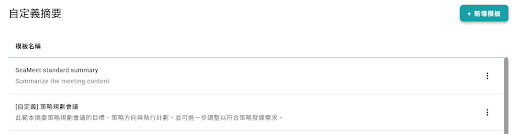
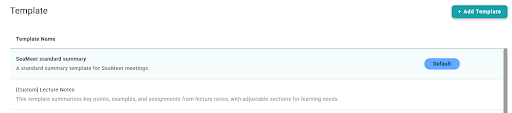
fix: en ver and add template list

diff --git a/content/zh/seameet/seameet-manual/2-general-setup/17-seameet-summary-template.md b/content/zh/seameet/seameet-manual/2-general-setup/17-seameet-summary-template.md
@@ -15,65 +15,17 @@ toc: true
 
 記錄會議時，取決於不同的會議性質，可能需要產出不同的會議紀錄重點與格式。為了讓會議摘要可以更符合企業與個別會議的需要，用戶可以依照會議選用合適的會議模板，或是自行創建合適的摘要模板。每個工作區都將有自己的摘要模板清單。
 
-※特別注意，摘要範本僅適用於「總結」會議摘要，不適用於「即時」會議摘要。
+- 特別注意，摘要範本僅適用於「總結」會議摘要，不適用於「即時」會議摘要。
 
-## 1. 套用摘要模板
-
-1. 會議結束後，點選會議摘要旁邊的摘要模板按鈕
-<center>
-<a name="seameet-template-btn" href="/images/seameet-zh/17-seameet-summary-template/1seameet-template-btn.png" target="_blank">
-<img style="width: 60%" src="/images/seameet-zh/17-seameet-summary-template/1seameet-template-btn.png" alt="seameet-template-btn"/>
-</a>
-
-</center>
-
-2. 在彈窗的下拉選單中，選擇您想套用的摘要模板
-<center>
-<a name="seameet-template-popup" href="/images/seameet-zh/17-seameet-summary-template/2seameet-template-popup.png" target="_blank">
-<img style="width: 60%" src="/images/seameet-zh/17-seameet-summary-template/2seameet-template-popup.png" alt="seameet-template-popup"/>
-</a>
-
-</center>
-
-3. 選擇儲存，即可重新產生會議摘要
-<center>
-<a name="seameet-generating-summary" href="/images/seameet-zh/17-seameet-summary-template/3seameet-generating-summary.png" target="_blank">
-<img style="width: 60%" src="/images/seameet-zh/17-seameet-summary-template/3seameet-generating-summary.png" alt="seameet-generating-summary"/>
-</a>
-
-</center>
-    <center>
-    <a name="seameet-generating-summary" href="/images/seameet-zh/17-seameet-summary-template/4seameet-generating-summary.png" target="_blank">
-    <img style="width: 60%" src="/images/seameet-zh/17-seameet-summary-template/4seameet-generating-summary.png" alt="seameet-generating-summary"/>
-    </a>
-
-</center>
-
-注意，每次產生新摘要後會自動寄出一封帶摘要的新郵件。如果您的分享設置是也分享給其他與會者，則所有人都會收到一份新郵件。
-
-## 2. 為例行性會議套用模板
-
-1. 若您有固定的例行性會議希望套用特定的會議摘要模板，例如「站立會議」或「週例會」。如您的會議是透過綁定 Google 行事曆或 E-mail 邀請，則點擊摘要模板時，便會自動詢問是否要為該系列會議套用固定的摘要模板。
-2. 套用後，每當有該系列的新會議被建立時，將自動套用該模板。
-
-- ※注意事項：例行性會議將以套用的模板為主，而非預設會議模板
-  <center>
-  <a name="seameet-choose-template" href="/images/seameet-zh/17-seameet-summary-template/5seameet-choose-template.png" target="_blank">
-  <img style="width: 60%" src="/images/seameet-zh/17-seameet-summary-template/5seameet-choose-template.png" alt="seameet-choose-template"/>
-  </a>
-
-</center>
-
-## 3. 摘要模板清單
+## 1. 摘要模板清單
 
 1.  點擊「工作區設定」的「自定義摘要」，即可瀏覽目前的模板清單
 
-- ※注意事項：須為個人方案或團隊方案，才可使用自定義摘要功能。用戶須為該工作區的擁有者或管理員權限。
+- 注意事項：須為個人方案或團隊方案，才可使用自定義摘要功能。用戶須為該工作區的擁有者或管理員權限。
 <center>
 <a name="seameet-customize-template" href="/images/seameet-zh/17-seameet-summary-template/6seameet-customize-template.png" target="_blank">
 <img style="width: 80%" src="/images/seameet-zh/17-seameet-summary-template/6seameet-customize-template.png" alt="seameet-customize-template"/>
 </a>
-
 </center>
 
 2. SeaMeet 目前預設支援如下摘要模板，包含多數企業日常所進行的各類會議，以及部份產業常見的會議需求。用戶可以自行選擇所需的摘要模板，或自行創建新模板。
@@ -98,6 +50,53 @@ toc: true
 - \[自定義\] 產品開發會議
 - \[自定義\] 醫療看診預約記錄
 - \[自定義\] 策略規劃會議
+
+## 2. 套用摘要模板
+
+1. 會議結束後，點選會議摘要旁邊的摘要模板按鈕
+<center>
+<a name="seameet-template-btn" href="/images/seameet-zh/17-seameet-summary-template/1seameet-template-btn.png" target="_blank">
+<img style="width: 60%" src="/images/seameet-zh/17-seameet-summary-template/1seameet-template-btn.png" alt="seameet-template-btn"/>
+</a>
+
+</center>
+
+2. 在彈窗的下拉選單中，選擇您想套用的摘要模板
+<center>
+<a name="seameet-template-popup" href="/images/seameet-zh/17-seameet-summary-template/2seameet-template-popup.png" target="_blank">
+<img style="width: 60%" src="/images/seameet-zh/17-seameet-summary-template/2seameet-template-popup.png" alt="seameet-template-popup"/>
+</a>
+
+</center>
+
+3. 選擇儲存，即可重新產生會議摘要
+<center>
+<a name="seameet-generating-summary" href="/images/seameet-zh/17-seameet-summary-template/3seameet-generating-summary.png" target="_blank">
+<img style="width: 60%" src="/images/seameet-zh/17-seameet-summary-template/3seameet-generating-summary.png" alt="seameet-generating-summary"/>
+</a>
+
+</center>
+<br>
+<center>
+<a name="seameet-generating-summary" href="/images/seameet-zh/17-seameet-summary-template/4seameet-generating-summary.png" target="_blank">
+<img style="width: 60%" src="/images/seameet-zh/17-seameet-summary-template/4seameet-generating-summary.png" alt="seameet-generating-summary"/>
+</a>
+</center>
+
+注意，每次產生新摘要後會自動寄出一封帶摘要的新郵件。如果您的分享設置是也分享給其他與會者，則所有人都會收到一份新郵件。
+
+## 3. 為例行性會議套用模板
+
+1. 若您有固定的例行性會議希望套用特定的會議摘要模板，例如「站立會議」或「週例會」。如您的會議是透過綁定 Google 行事曆或 E-mail 邀請，則點擊摘要模板時，便會自動詢問是否要為該系列會議套用固定的摘要模板。
+2. 套用後，每當有該系列的新會議被建立時，將自動套用該模板。
+
+- 注意事項：例行性會議將以套用的模板為主，而非預設會議模板
+<center>
+<a name="seameet-choose-template" href="/images/seameet-zh/17-seameet-summary-template/5seameet-choose-template.png" target="_blank">
+<img style="width: 60%" src="/images/seameet-zh/17-seameet-summary-template/5seameet-choose-template.png" alt="seameet-choose-template"/>
+</a>
+
+</center>
 
 ## 4. 設定預設模板
 

diff --git a/content/en/seameet/seameet-manual/2-general-setup/17-seameet-summary-template.md b/content/en/seameet/seameet-manual/2-general-setup/17-seameet-summary-template.md
@@ -16,7 +16,42 @@ toc: true
 
 When recording a meeting, depending on the nature of the meeting, different focus and formats of the meeting minutes may need to be produced. In order to make the meeting summary more in line with the needs of enterprises and individual meetings, users can choose an appropriate meeting template according to the meeting, or create an appropriate abstract template by themselves. Each workspace will have its own list of summary templates.
 
-※ Please note that the abstract template is only applicable to "summary" meeting abstracts and not to "real-time" meeting abstracts.
+- Please note that the abstract template is only applicable to "summary" meeting abstracts and not to "real-time" meeting abstracts.
+
+## 1. Summary Template List
+
+1.  To view the current template list, navigate to `Workspace Settings` -> `Template`.
+
+- Note: Available only for Individual and Team plans. Users must have Owner or Admin permissions for the workspace.
+
+<center>
+<a name="seameet-customize-template" href="/images/seameet-en/17-seameet-summary-template/6seameet-customize-template.png" target="_blank">
+<img style="width: 80%" src="/images/seameet-en/17-seameet-summary-template/6seameet-customize-template.png" alt="seameet-customize-template"/>
+</a>
+</center>
+
+2. SeaMeet provides a set of built-in summary templates covering common business meetings and industry-specific needs. Users can select a template from the list or create a new one.
+
+**Built-in Summary Templates**
+
+- \[Default\] SeaMeet standard summary
+- \[Custom\] Weekly Department Meeting
+- \[Custom\] Podcast Recording
+- \[Custom\] Lecture Notes
+- \[Custom\] All-Hands Meeting
+- \[Custom\] Client Meeting
+- \[Custom\] Legal Case Preparation
+- \[Custom\] Job Interview Record
+- \[Custom\] Sales Meeting
+- \[Custom\] Daily Stand-up Meeting
+- \[Custom\] Academic Affairs Meeting
+- \[Custom\] Project Management Meeting
+- \[Custom\] One-on-One Meeting
+- \[Custom\] Journalist Interview Records
+- \[Custom\] Requirement Discussion Meeting
+- \[Custom\] Product Development Meeting
+- \[Custom\] Medical Appointment Records
+- \[Custom\] Strategy Planning Meeting
 
 ## 1. Apply summary template
 
@@ -25,7 +60,6 @@ When recording a meeting, depending on the nature of the meeting, different focu
 <a name="seameet-template-btn" href="/images/seameet-en/17-seameet-summary-template/1seameet-template-btn.png" target="_blank">
 <img style="width: 60%" src="/images/seameet-en/17-seameet-summary-template/1seameet-template-btn.png" alt="seameet-template-btn"/>
 </a>
-
 </center>
 
 2. In the drop-down menu of the pop-up window, select the summary template you want to apply
@@ -33,13 +67,18 @@ When recording a meeting, depending on the nature of the meeting, different focu
 <a name="seameet-template-popup" href="/images/seameet-en/17-seameet-summary-template/2seameet-template-popup.png" target="_blank">
 <img style="width: 60%" src="/images/seameet-en/17-seameet-summary-template/2seameet-template-popup.png" alt="seameet-template-popup"/>
 </a>
-
 </center>
 
 3. Select Save to regenerate the meeting summary
 <center>
 <a name="seameet-generating-summary" href="/images/seameet-en/17-seameet-summary-template/3seameet-generating-summary.png" target="_blank">
 <img style="width: 60%" src="/images/seameet-en/17-seameet-summary-template/3seameet-generating-summary.png" alt="seameet-generating-summary"/>
+</a>
+</center>
+<br>
+<center>
+<a name="seameet-generating-summary" href="/images/seameet-en/17-seameet-summary-template/3seameet-generating-summary2.png" target="_blank">
+<img style="width: 60%" src="/images/seameet-en/17-seameet-summary-template/3seameet-generating-summary2.png" alt="seameet-generating-summary"/>
 </a>
 
 </center>
@@ -51,25 +90,23 @@ Note that each time a new digest is generated, a new email with the digest will 
 1. If you have a fixed routine meeting and want to apply a specific meeting summary template, such as "stand-up meeting" or "weekly meeting". If your meeting is invited by binding Google calendar or email, when you click the abstract template, you will automatically be asked whether you want to apply a fixed abstract template to this series of meetings.
 2. After application, the template will be automatically applied whenever a new meeting of this series is created.
 
-- ※ Note: Regular meetings will be based on the applied template, not the default meeting template
-  <center>
-  <a name="seameet-choose-template" href="/images/seameet-en/17-seameet-summary-template/4seameet-choose-template.png" target="_blank">
-  <img style="width: 60%" src="/images/seameet-en/17-seameet-summary-template/4seameet-choose-template.png" alt="seameet-choose-template"/>
-  </a>
-
+- Note: Regular meetings will be based on the applied template, not the default meeting template
+<center>
+<a name="seameet-choose-template" href="/images/seameet-en/17-seameet-summary-template/4seameet-choose-template.png" target="_blank">
+<img style="width: 60%" src="/images/seameet-en/17-seameet-summary-template/4seameet-choose-template.png" alt="seameet-choose-template"/>
+</a>
 </center>
 
 ## 3. Summary template checklist
 
 1.  Go to the `Template` tab to browse the current template list
 
-- ※ Note: The custom summary function can only be used if it is an individual plan or a team plan. The user must have owner or administrator rights for the workspace.
+- Note: The custom summary function can only be used if it is an individual plan or a team plan. The user must have owner or administrator rights for the workspace.
 
 <center>
 <a name="seameet-customize-template" href="/images/seameet-en/17-seameet-summary-template/5seameet-choose-template.png" target="_blank">
 <img style="width: 80%" src="/images/seameet-en/17-seameet-summary-template/5seameet-choose-template.png" alt="seameet-customize-template"/>
 </a>
-
 </center>
 
 ## 4. Set default template
